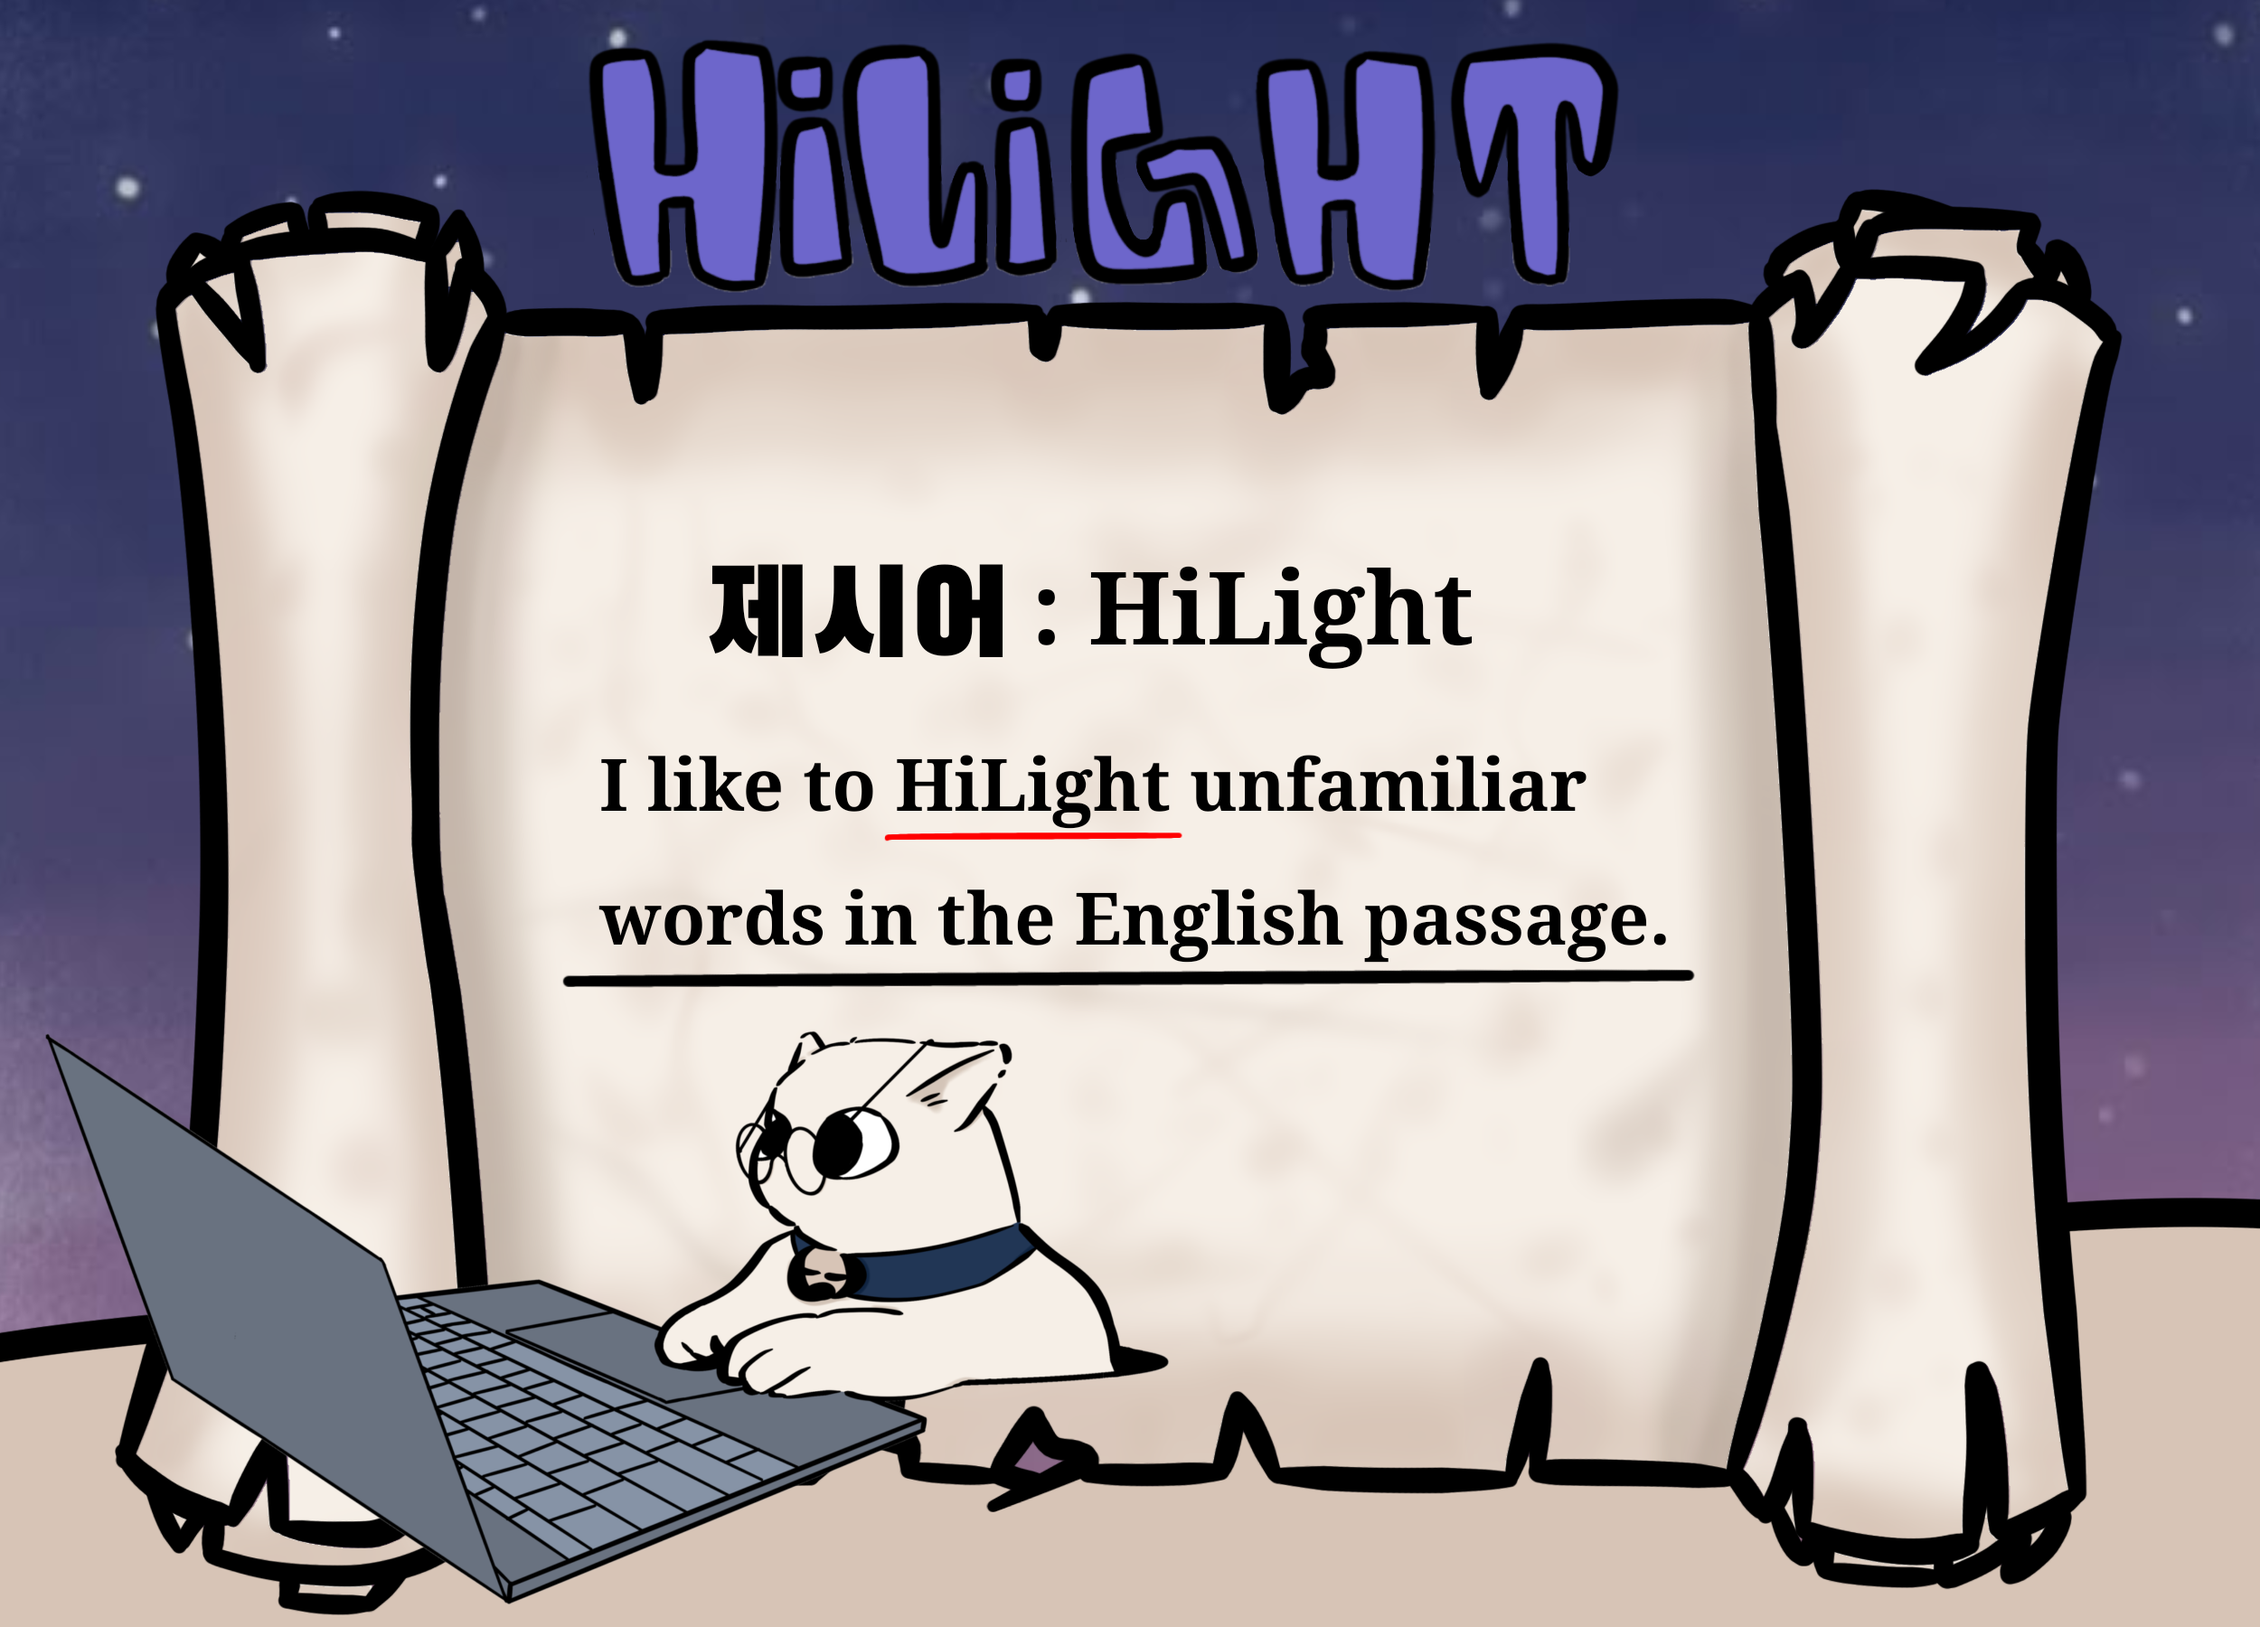
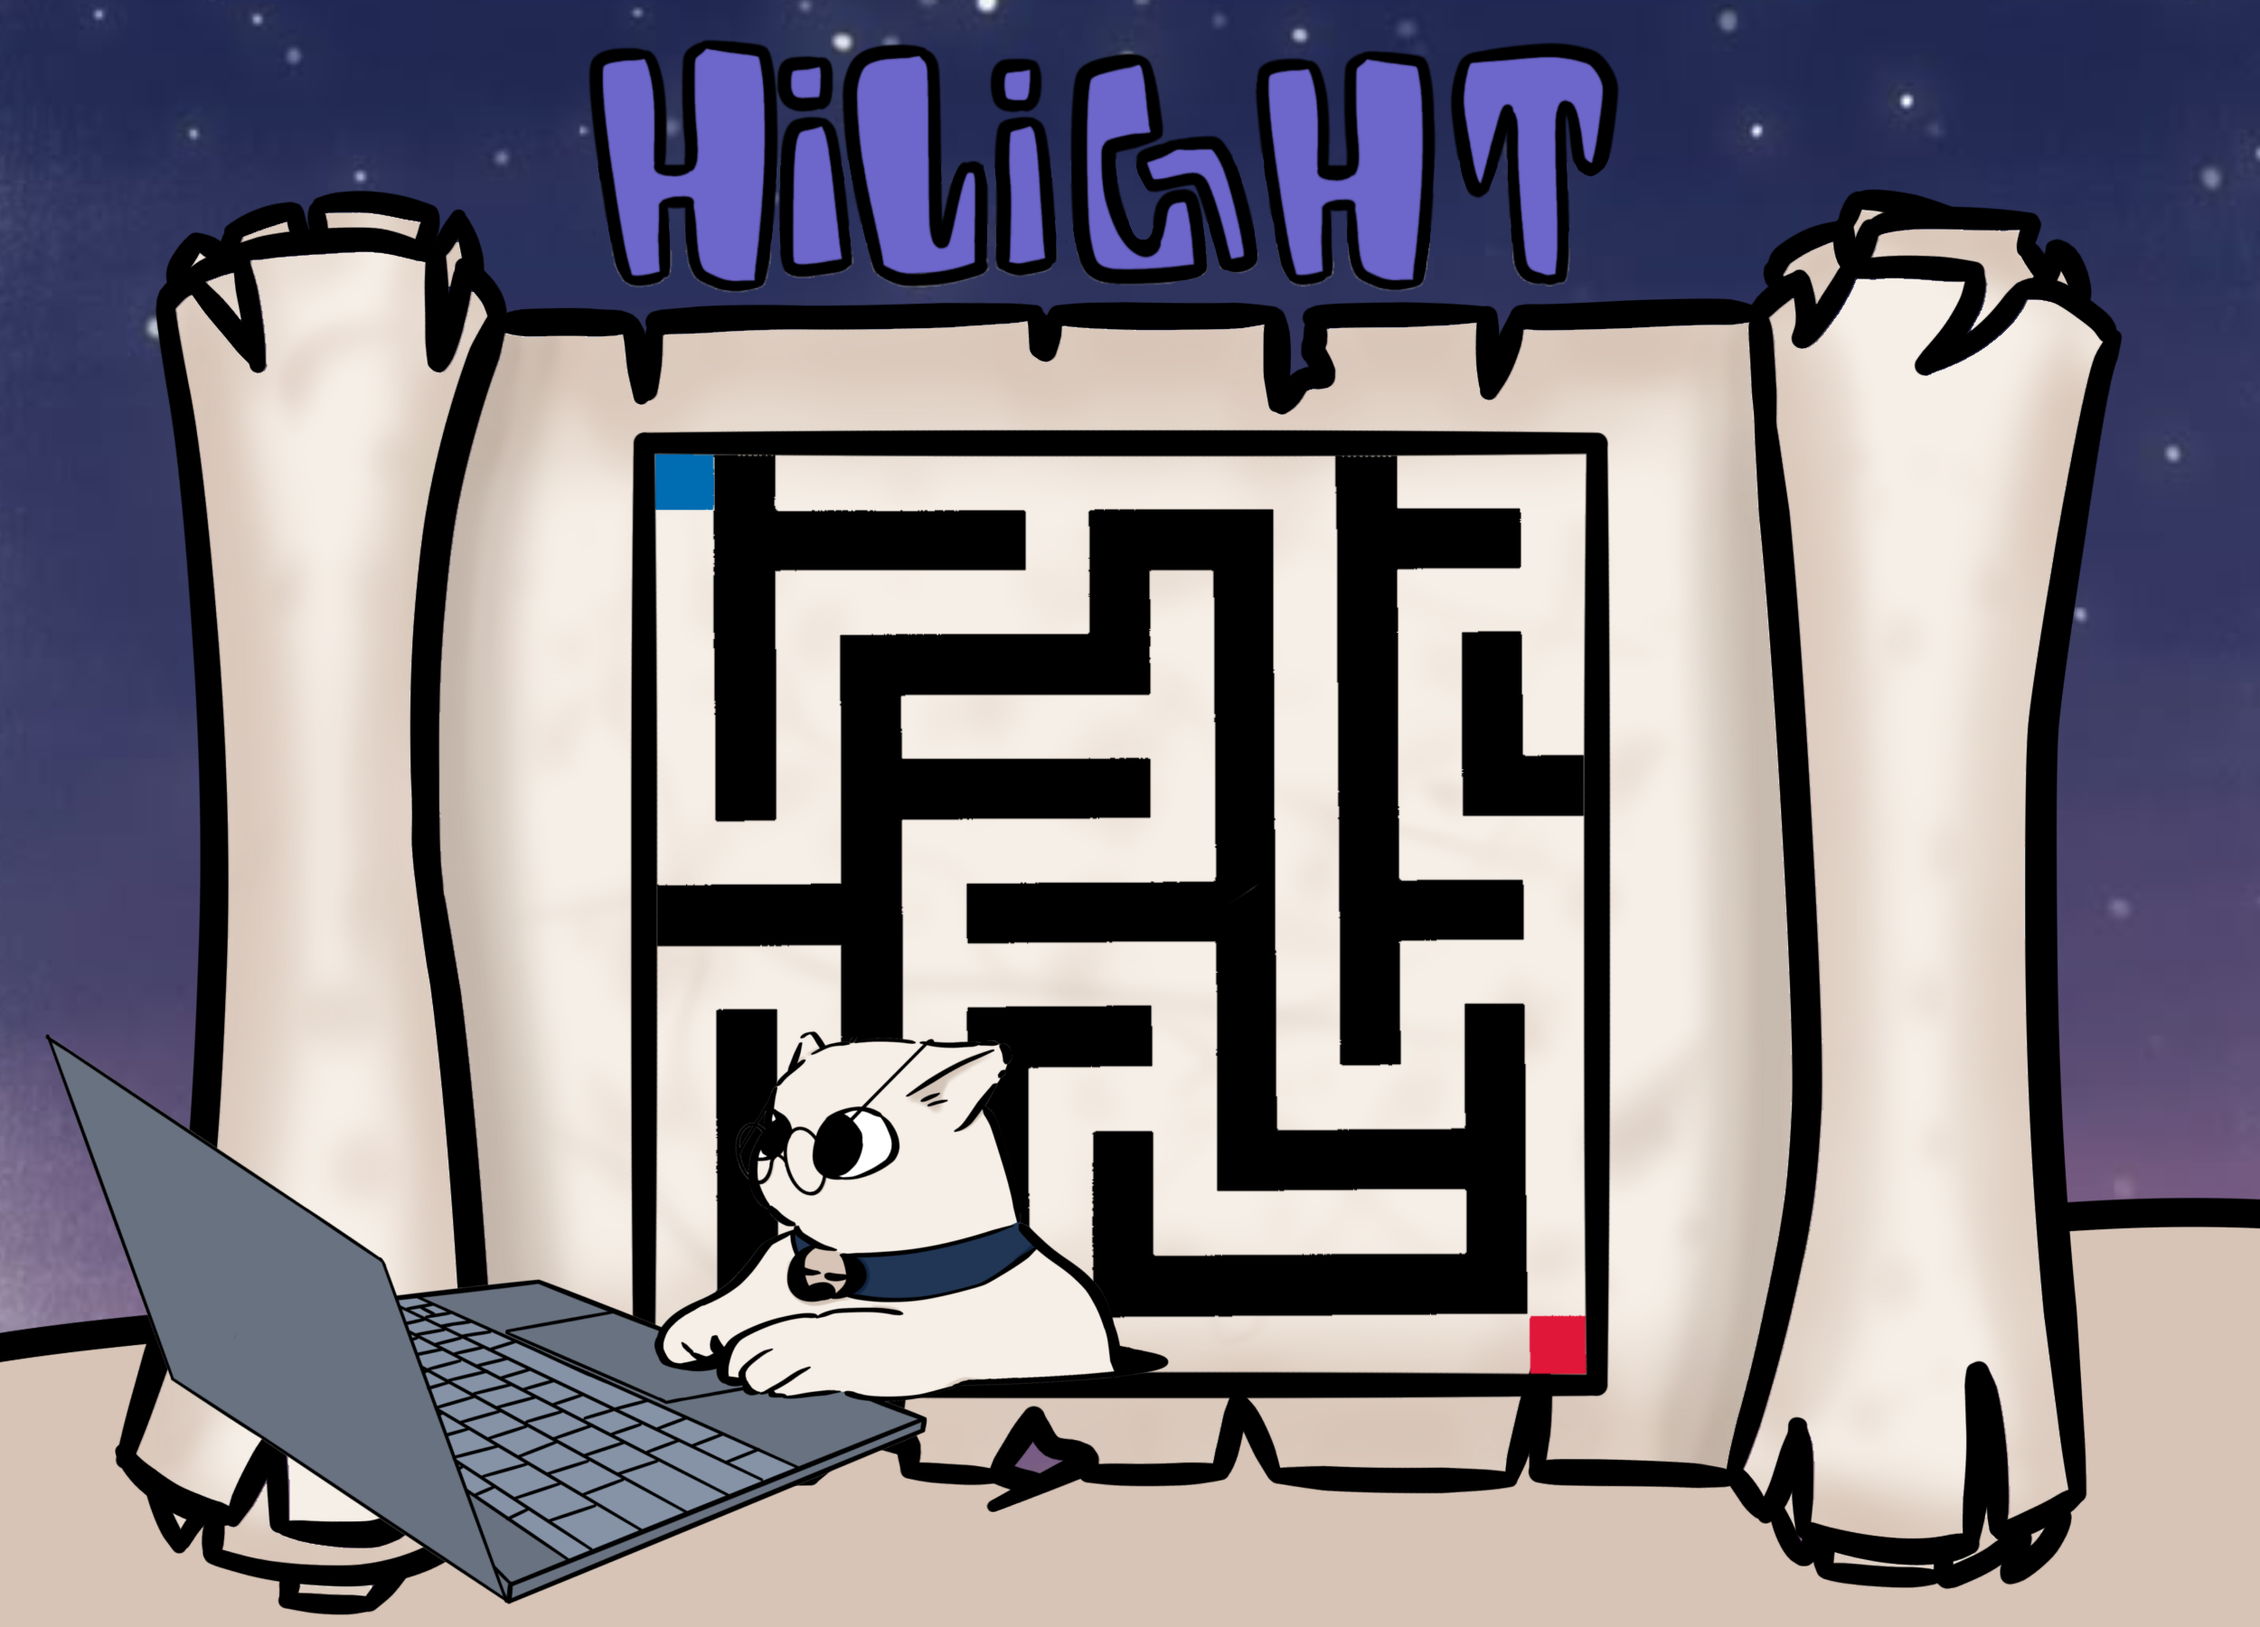
미로 게임 끝

diff --git a/lib/pages/games/game3_page.dart b/lib/pages/games/game3_page.dart
@@ -910,7 +910,7 @@ class _Game3PageState extends State<Game3Page> {
                               mainAxisSize: MainAxisSize.min,
                               children: const [
                                 Text(
-                                  "미로를 탈출합시다!\n"
+                                  "미로를 탈출합시다!\n빨간 지점까지 이동하세요!\n"
                                   "갈림길마다 문제를 풀고 \n방향을 선택하세요!\n"
                                   "방향 선택을 3초 안에 결정하지 않으면 \n다시 문제를 풀어야 합니다.",
                                   style: TextStyle(
